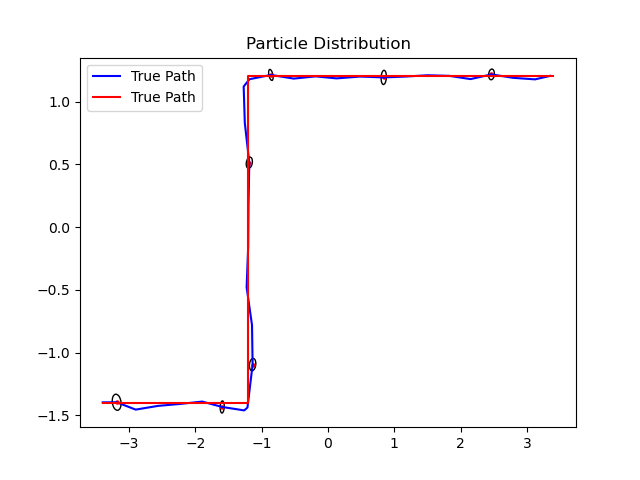
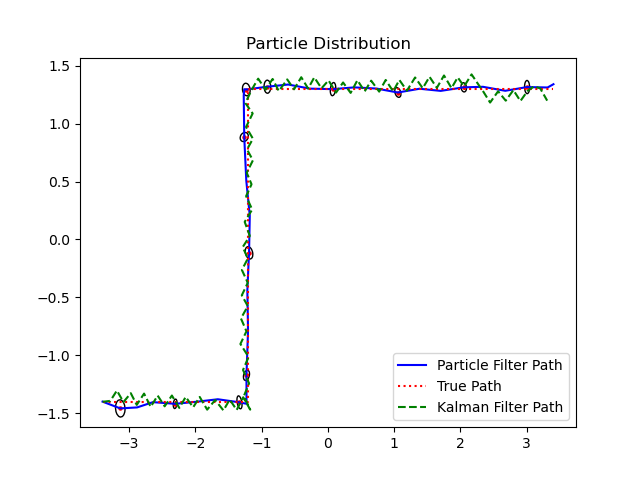
cleaned the code and created new functions

diff --git a/demo.py b/demo.py
@@ -92,41 +92,31 @@ def main(screenshot=False):
         ##############################################################################################################
 
         for step in range(num_steps):
-            control = np.array([
-                    (checkPoint[0] - true_pose[0])/pf.dt,  # Vx
-                    (checkPoint[1] - true_pose[1])/pf.dt,  # Vy
-                    (checkPoint[2] - true_pose[2])/pf.dt,  # w
-                ])
-            control[0:2] = np.clip(control[0:2],-pf.velocityLimit,pf.velocityLimit)
-            # control[2] = np.clip(control[2],-pf.velocityLimit,pf.velocityLimit)
+            # Given state xt and control input ut, predict state xt+1
+            particles = pf.predict(checkPoint,true_pose,particles)
+            # update based on measurement model
+            particles,weights = pf.updateWeights(true_pose,particles)
 
-            particles = pf.motion_model(particles, control)
-            measurement = np.array([true_pose[0] + np.random.normal(0, pf.measurement_noise),
-                                    true_pose[1] + np.random.normal(0, pf.measurement_noise),
-                                    true_pose[2] + np.random.normal(0, pf.measurement_noise)])
-
-            # Update particle weights based on measurement model
-            weights = pf.measurement_model(particles, measurement)
-            indices = np.random.choice(np.arange(pf.num_particles), pf.num_particles, p=weights)
-            particles = particles[indices]
-
-            # Estimate the robot's pose based on particle positions (mean or weighted mean)
+            # estimated state xt+1 
             estimated_pose = np.mean(particles, axis=0)
-            # Store true and estimated poses
             true_trajectory[step] = true_pose
-            pf_states.append(estimated_pose)
-            pf_error.append(pf.calculateError(estimated_pose,true_pose,checkPoint))
 
+            # for plotting 
             weighted_mean = np.sum(particles.T*weights,axis=1)/np.sum(weights)
             cov_matrix = np.zeros((particles.shape[1],particles.shape[1]))
-            if step%5==0:
+
+            if step%3==0:
                 for i in range (particles.shape[0]):
                     diff = (particles[i]-weighted_mean).reshape(-1,1)
                     cov_matrix +=weights[i]*(diff@diff.T)
                 cov_matrix /=np.sum(weights)
                 plot_cov(estimated_pose[:2],cov_matrix,ax)
 
+            pf_states.append(estimated_pose)
+            pf_error.append(pf.calculateError(estimated_pose,true_pose,checkPoint))
             true_pose = estimated_pose
+
+            # estimated state is close to next state
             if np.linalg.norm(estimated_pose[0:2] - checkPoint[0:2]) < 0.05:                
                 break
 
@@ -147,9 +137,9 @@ def main(screenshot=False):
     
     plt.figure(1)
     plt.title("Particle Distribution")
-    plt.plot(pf_states[:,0],pf_states[:,1],label='True Path',linestyle='-',color='blue')
-    plt.plot(actual_states[:,0], actual_states[:,1], label='True Path', linestyle='-', color='red')
-    # plt.plot(kf_states[:, 0], kf_states[:, 1], label='Kalman Filter Path', linestyle='--',color = 'green')
+    plt.plot(pf_states[:,0],pf_states[:,1],label='Particle Filter Path',linestyle='-',color='blue')
+    plt.plot(actual_states[:,0], actual_states[:,1], label='True Path', linestyle=':', color='red')
+    plt.plot(kf_states[:, 0], kf_states[:, 1], label='Kalman Filter Path', linestyle='--',color = 'green')
     plt.legend()
 
     plt.figure(2)
@@ -160,7 +150,7 @@ def main(screenshot=False):
     plt.legend()
     
     plt.figure(3)
-    plt.title("kf_error between current position and target")
+    plt.title("Error between current position and target")
     plt.plot(kf_error,linestyle='-',color='red')
     plt.plot(pf_error,linestyle='-',color='blue')
     plt.legend()
@@ -168,12 +158,9 @@ def main(screenshot=False):
     plt.show()
 
     plt.ioff()
-    
+    time.sleep(5)
     execute_trajectory(robots['pr2'], base_joints, pf_states, sleep=0.2)
     
-
-
-
     # Keep graphics window opened
     wait_if_gui()
     disconnect()

diff --git a/particle_filter.py b/particle_filter.py
@@ -14,14 +14,35 @@ class Particle_Filter():
         self.measurement_noise = 0.1
         self.velocityLimit = 4
 
+    def predict(self,checkPoint,true_pose,particles):
+        control = np.array([
+                                (checkPoint[0] - true_pose[0])/self.dt,  # Vx
+                                (checkPoint[1] - true_pose[1])/self.dt,  # Vy
+                                (checkPoint[2] - true_pose[2])/self.dt,  # w
+                            ])
+        control[0:2] = np.clip(control[0:2],-self.velocityLimit,self.velocityLimit)
+        particles = self.motion_model(particles, control)
+        return particles
+    
+    def updateWeights(self,true_pose,particles):
+        measurement = np.array([true_pose[0] + np.random.normal(0, self.measurement_noise),
+                                    true_pose[1] + np.random.normal(0, self.measurement_noise),
+                                    true_pose[2] + np.random.normal(0, self.measurement_noise)])
+
+        # Update particle weights based on measurement model
+        weights = self.measurement_model(particles, measurement)
+        indices = np.random.choice(np.arange(self.num_particles), self.num_particles, p=weights)
+        particles = particles[indices]
+        return particles,weights
+
+
     def motion_model(self,particles, control):
         particles[:, 0] += control[0] * self.dt  # Update x
         particles[:, 1] += control[1] * self.dt  # Update y
         particles[:, 2] += control[2] * self.dt  # Update w
+        
         # Add motion noise
         particles += np.random.multivariate_normal(np.array([0,0,0]),np.diag([0.001,0.001,0.001]),size=self.num_particles)
-        # particles[:, 1] += np.random.normal(0, self.motion_noise, self.num_particles)
-
         return particles
     
     def calculateError(self, point, line_start, line_end):
